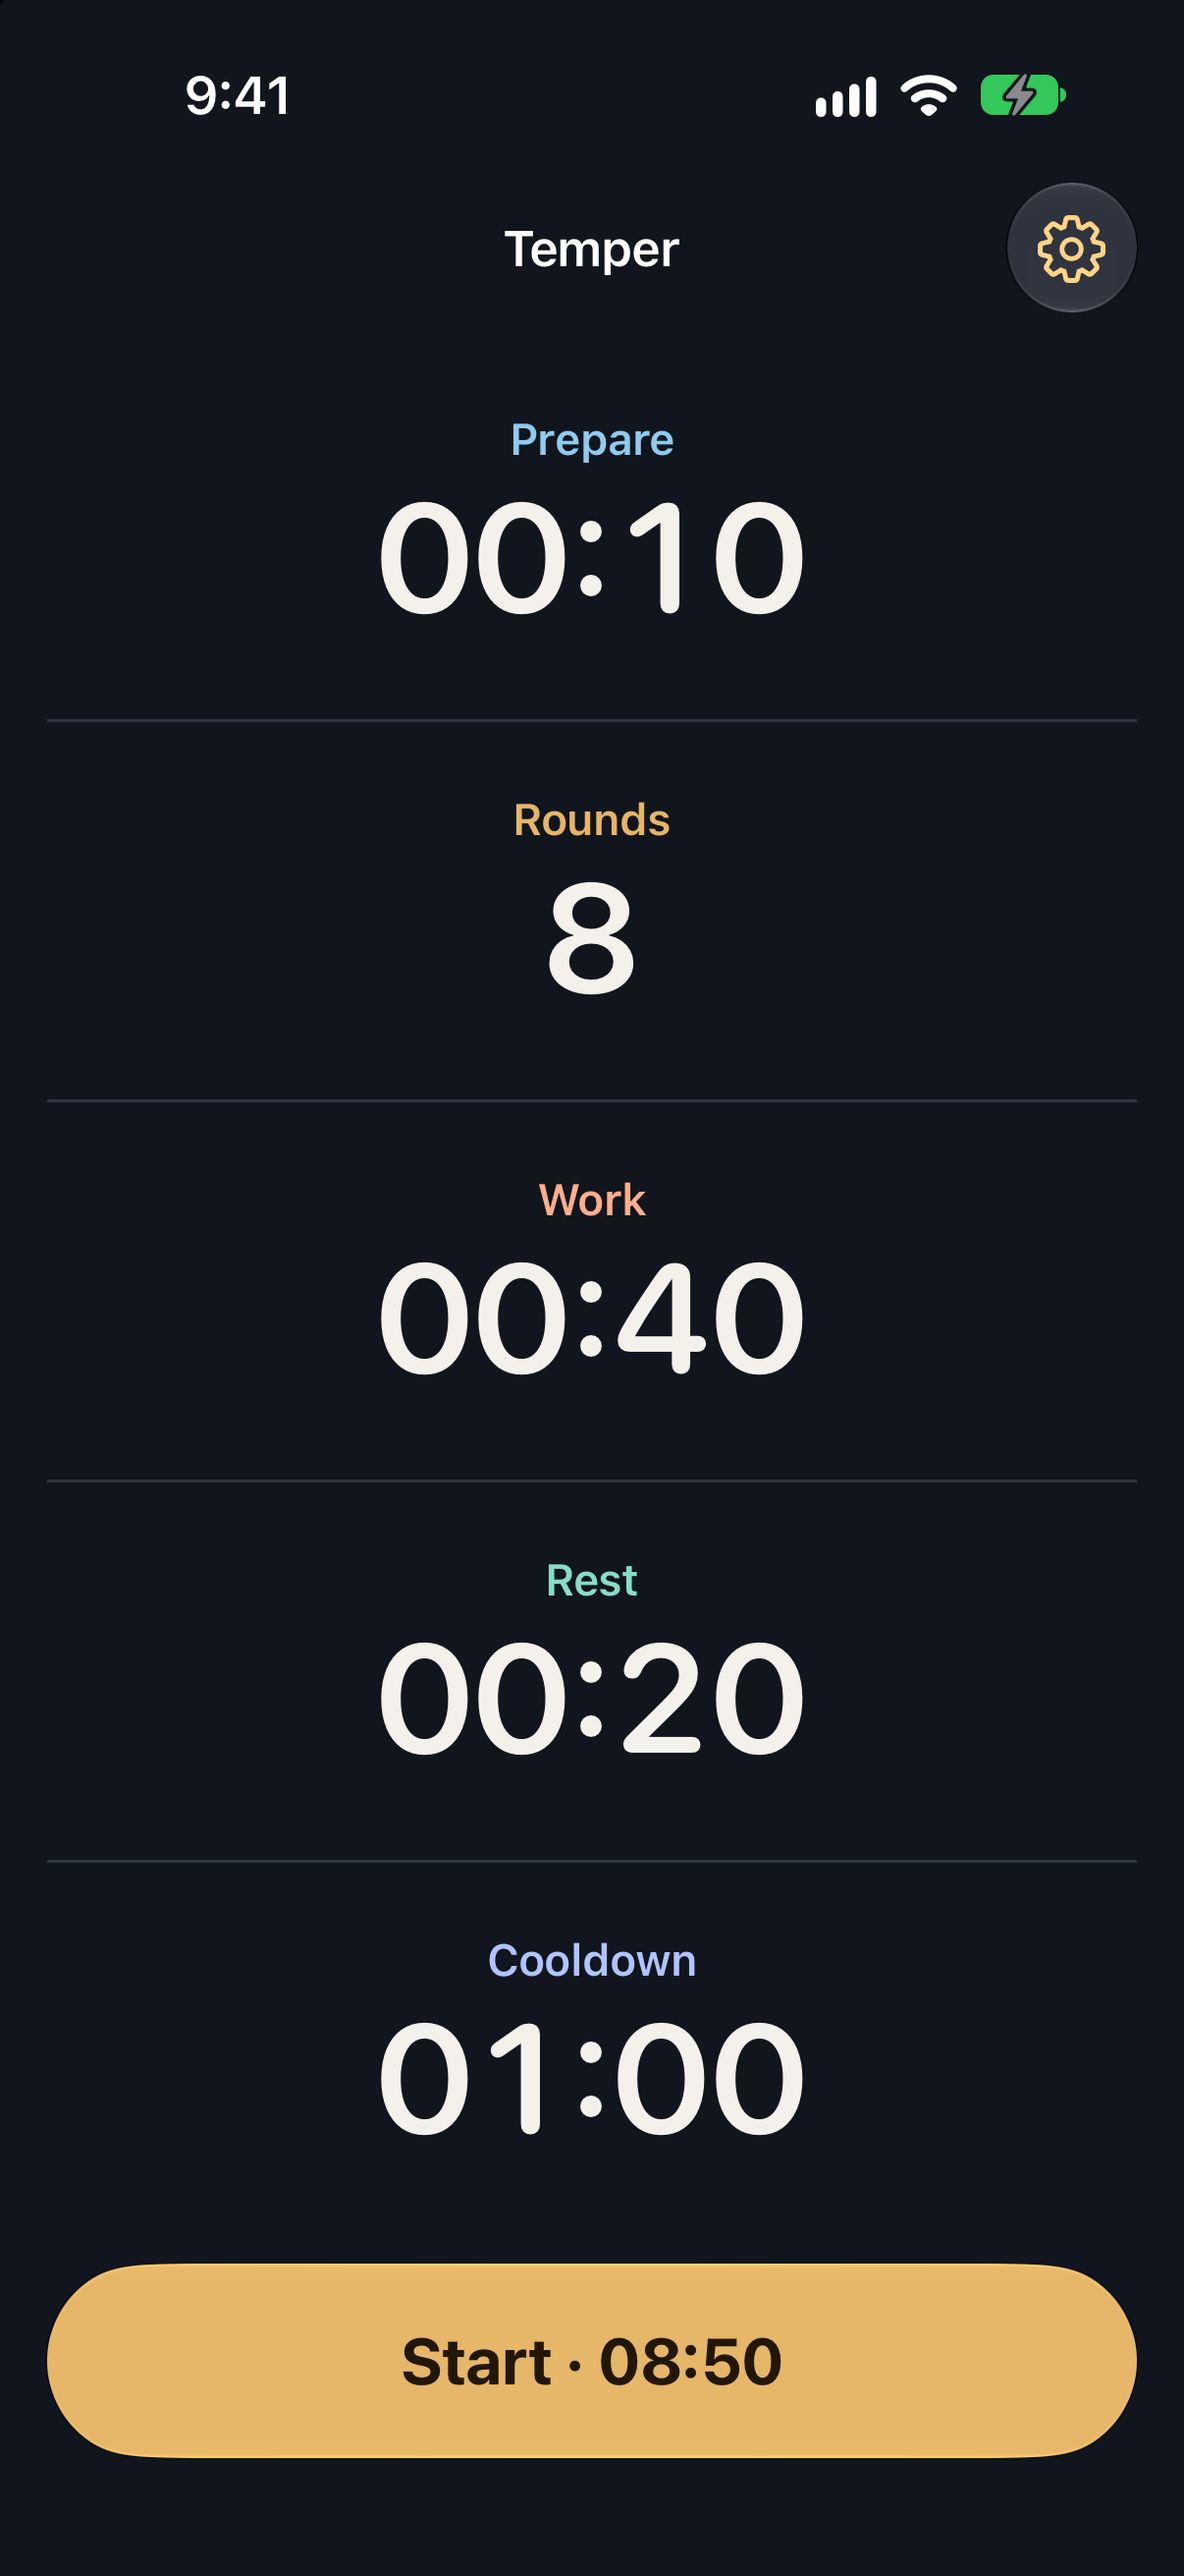
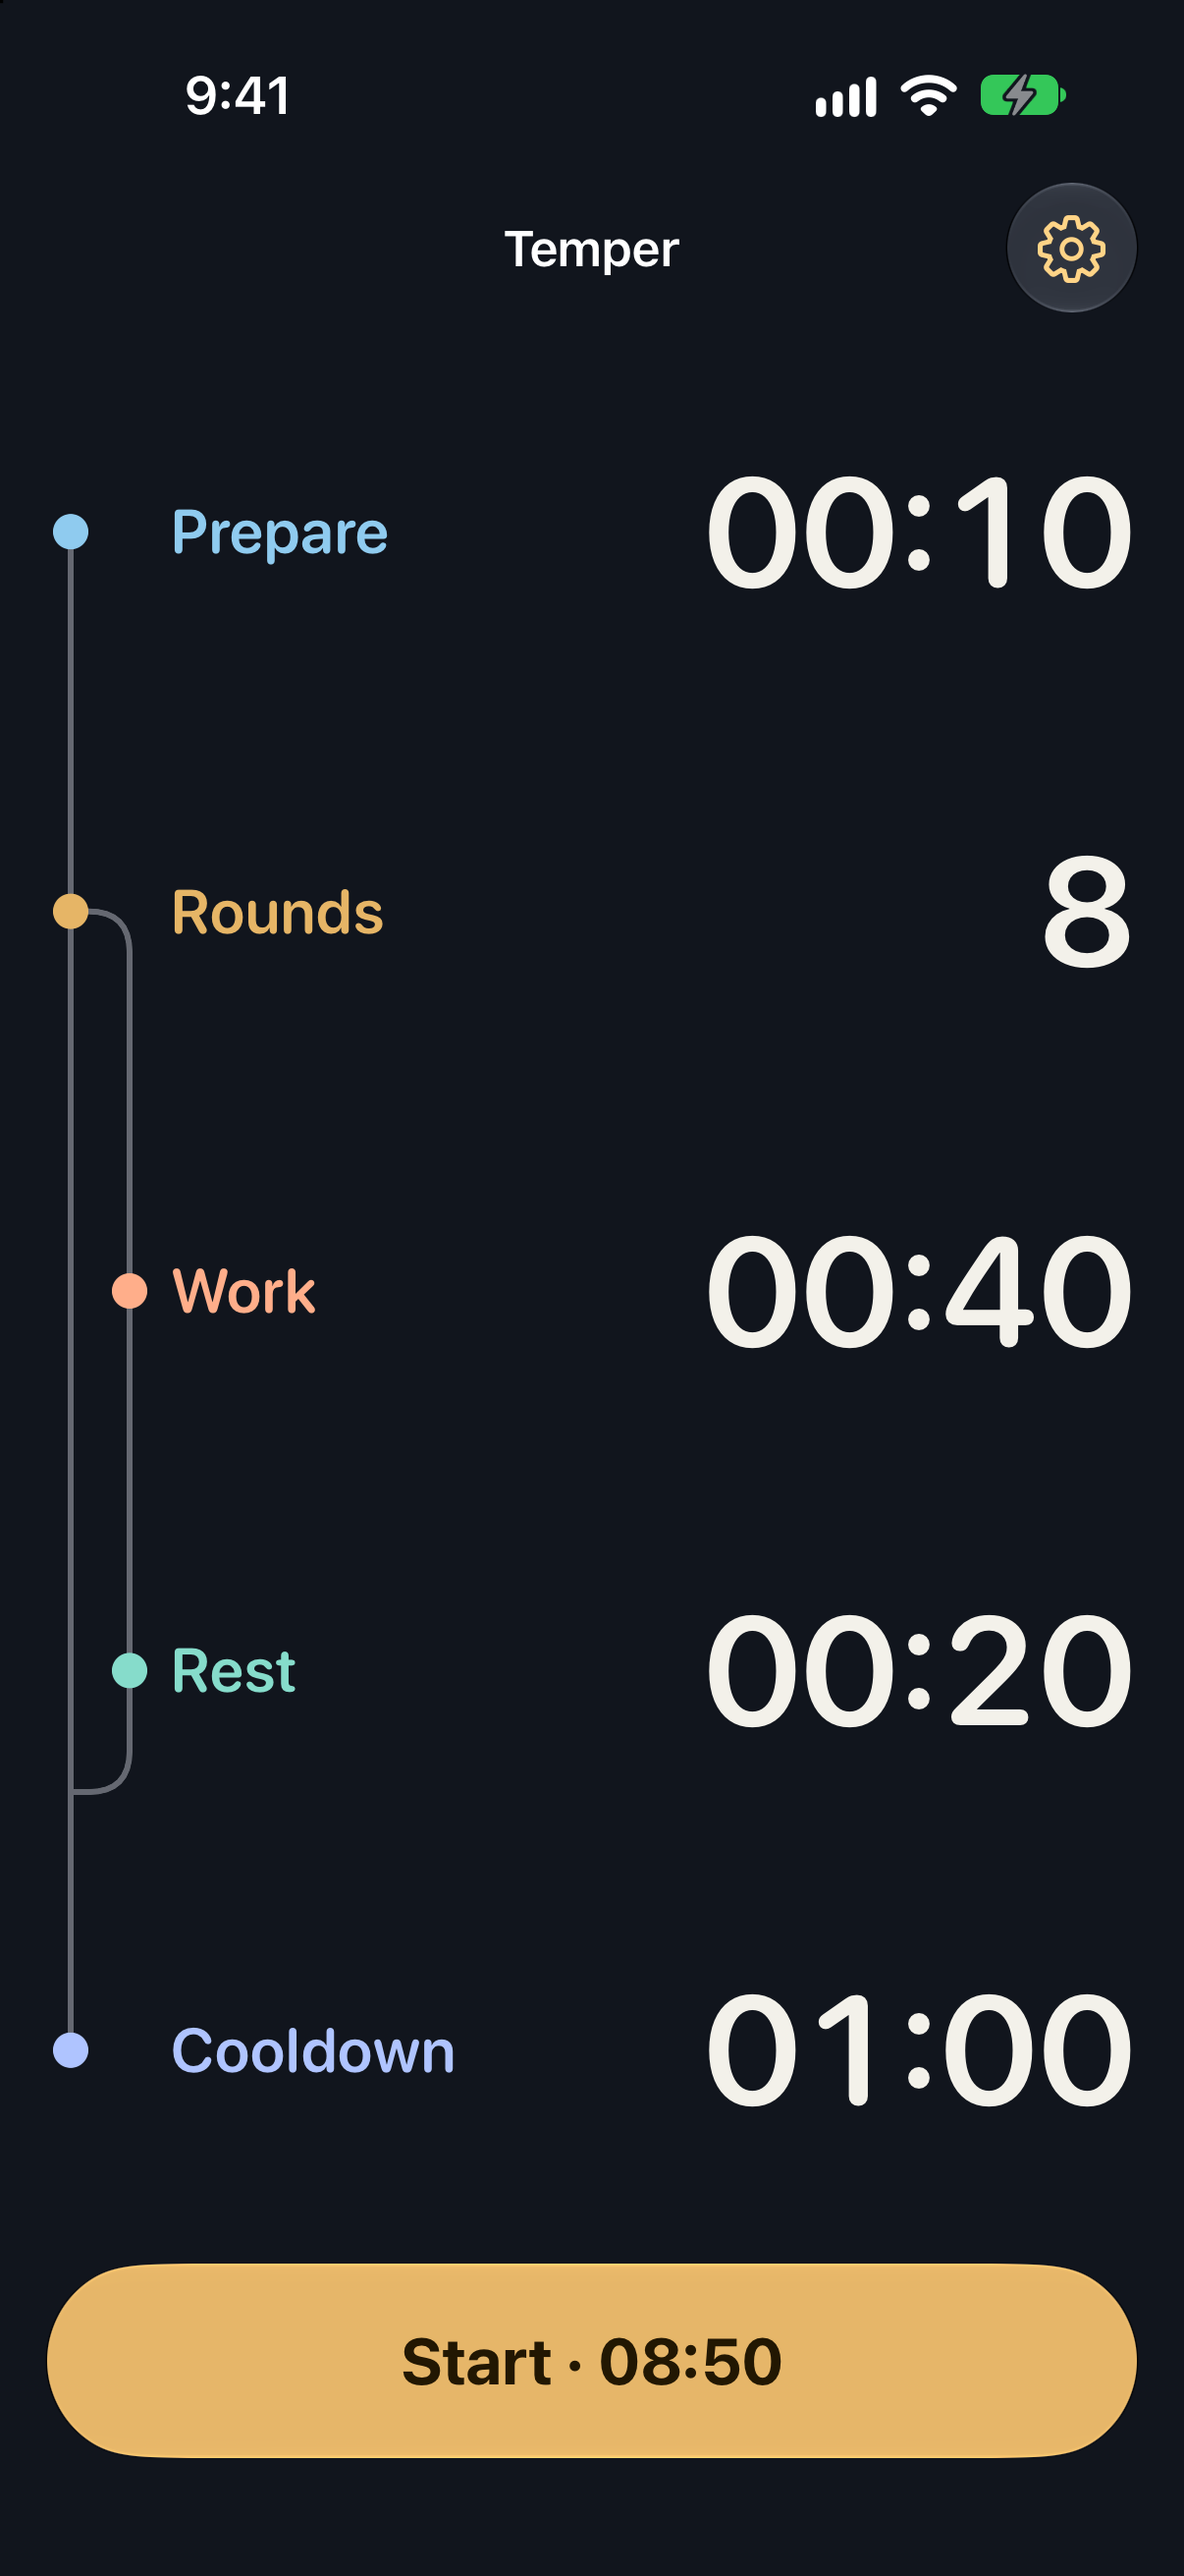
Compare three setup label styles in Screens Probe
Thread draws the Workout as a line with Work and Rest on a loop, Italic uses the system serif italic, and Edge turns the labels sideways along each row.

diff --git a/Prototypes/ScreensProbe/ScreensProbe/SetupF.swift b/Prototypes/ScreensProbe/ScreensProbe/SetupF.swift
@@ -1,35 +1,35 @@
 // PROTOTYPE, throw away. The chosen setup screen: the screen is only the preview, and tapping a
 // value opens a sheet with the custom wheel. Each value and sheet wears its Phase's colors, so
-// setup previews how the Workout will look. Rounds has no Phase, so it wears brass.
+// setup previews how the Workout will look. Rounds has no Phase, so it wears brass. This round
+// compares three treatments of the labels.
 import SwiftUI
+
+enum LabelStyle: String, CaseIterable {
+    case thread, serif, edge
+
+    var title: String {
+        switch self {
+        case .thread: "Thread"
+        case .serif: "Italic"
+        case .edge: "Edge"
+        }
+    }
+
+    var next: LabelStyle {
+        let all = Self.allCases
+        return all[((all.firstIndex(of: self) ?? 0) + 1) % all.count]
+    }
+}
 
 struct SetupF: View {
     @Bindable var state: ProbeState
 
     private var colors: ThemeColors { state.theme.colors }
+    private var style: LabelStyle { state.labelStyle }
 
     var body: some View {
         VStack(spacing: 0) {
-            ForEach(Field.allCases) { field in
-                Button {
-                    state.editing = field
-                } label: {
-                    VStack(spacing: 0) {
-                        Text(field.title).font(.subheadline.weight(.semibold))
-                            .foregroundStyle(titleColor(field))
-                        Text(field.text(state.values[keyPath: field.keyPath]))
-                            .font(.system(size: 52, weight: .semibold, design: .rounded))
-                            .monospacedDigit()
-                            .foregroundStyle(colors.text)
-                    }
-                    .frame(maxWidth: .infinity, maxHeight: .infinity)
-                    .contentShape(.rect)
-                }
-                .buttonStyle(.plain)
-                if field != .cooldown {
-                    Rectangle().fill(colors.separator).frame(height: 1)
-                }
-            }
+            rows
             StartButton(state: state)
                 .padding(.top, 8)
         }
@@ -40,13 +40,84 @@ struct SetupF: View {
         .sheet(item: $state.editing) { field in
             let sheet = sheetColors(field)
             VStack(spacing: 8) {
-                Text(field.title).font(.headline).foregroundStyle(sheet.title).padding(.top, 20)
+                sheetTitle(field).foregroundStyle(sheet.title).padding(.top, 20)
                 FieldEditor(state: state, field: field)
                     .foregroundStyle(sheet.text)
             }
             .padding(.horizontal)
             .presentationDetents([.medium])
             .presentationBackground(sheet.background)
+        }
+    }
+
+    private var rows: some View {
+        VStack(spacing: 0) {
+            ForEach(Field.allCases) { field in
+                Button {
+                    state.editing = field
+                } label: {
+                    row(field)
+                        .frame(maxWidth: .infinity, maxHeight: .infinity)
+                        .contentShape(.rect)
+                }
+                .buttonStyle(.plain)
+                .accessibilityLabel(
+                    "\(field.title) \(field.text(state.values[keyPath: field.keyPath]))")
+                if field != .cooldown, style != .thread {
+                    Rectangle().fill(colors.separator).frame(height: 1)
+                }
+            }
+        }
+        .overlay(alignment: .leading) {
+            if style == .thread {
+                WorkoutThread(state: state)
+                    .frame(width: 36)
+                    .allowsHitTesting(false)
+            }
+        }
+    }
+
+    @ViewBuilder
+    private func row(_ field: Field) -> some View {
+        switch style {
+        case .thread:
+            HStack {
+                Text(field.title)
+                    .font(.system(size: 21, weight: .semibold, design: .rounded))
+                    .foregroundStyle(titleColor(field))
+                Spacer(minLength: 8)
+                value(field)
+            }
+            .padding(.leading, 42)
+        case .serif:
+            VStack(spacing: 0) {
+                Text(field.title)
+                    .font(.system(size: 25, weight: .medium, design: .serif).italic())
+                    .foregroundStyle(titleColor(field))
+                value(field)
+            }
+        case .edge:
+            value(field)
+                .frame(maxWidth: .infinity)
+                .overlay(alignment: .leading) {
+                    EdgeLabel(title: field.title, color: titleColor(field))
+                }
+        }
+    }
+
+    private func value(_ field: Field) -> some View {
+        Text(field.text(state.values[keyPath: field.keyPath]))
+            .font(.system(size: 52, weight: .semibold, design: .rounded))
+            .monospacedDigit()
+            .foregroundStyle(colors.text)
+    }
+
+    @ViewBuilder
+    private func sheetTitle(_ field: Field) -> some View {
+        if style == .serif {
+            Text(field.title).font(.system(size: 25, weight: .medium, design: .serif).italic())
+        } else {
+            Text(field.title).font(.headline)
         }
     }
 
@@ -60,5 +131,70 @@ struct SetupF: View {
         }
         let phase = state.theme.phase(kind)
         return (phase.background, phase.ring, phase.text)
+    }
+}
+
+/// The Workout drawn as one line: Prepare, a loop that Work and Rest sit on, then Cooldown. An
+/// empty node means the Phase is Off.
+private struct WorkoutThread: View {
+    let state: ProbeState
+
+    var body: some View {
+        Canvas { context, size in
+            let colors = state.theme.colors
+            let count = CGFloat(Field.allCases.count)
+            func center(_ index: Int) -> CGFloat { size.height * (CGFloat(index) + 0.5) / count }
+            let left: CGFloat = 8
+            let right: CGFloat = 28
+            let bottom = center(3) + size.height / count * 0.32
+            let line = StrokeStyle(lineWidth: 2, lineCap: .round)
+
+            var thread = Path()
+            thread.move(to: CGPoint(x: left, y: center(0)))
+            thread.addLine(to: CGPoint(x: left, y: center(4)))
+            thread.move(to: CGPoint(x: left, y: center(1)))
+            thread.addLine(to: CGPoint(x: right - 14, y: center(1)))
+            thread.addQuadCurve(
+                to: CGPoint(x: right, y: center(1) + 14),
+                control: CGPoint(x: right, y: center(1)))
+            thread.addLine(to: CGPoint(x: right, y: bottom - 14))
+            thread.addQuadCurve(
+                to: CGPoint(x: right - 14, y: bottom),
+                control: CGPoint(x: right, y: bottom))
+            thread.addLine(to: CGPoint(x: left, y: bottom))
+            context.stroke(thread, with: .color(colors.secondary.opacity(0.55)), style: line)
+
+            for (index, field) in Field.allCases.enumerated() {
+                let onLoop = field == .work || field == .rest
+                let spot = CGPoint(x: onLoop ? right : left, y: center(index))
+                let color = field.phaseKind.map { state.theme.phase($0).ring } ?? colors.accent
+                let rect = CGRect(x: spot.x - 6, y: spot.y - 6, width: 12, height: 12)
+                if state.values[keyPath: field.keyPath] == 0 {
+                    context.fill(Path(ellipseIn: rect), with: .color(colors.background))
+                    context.stroke(Path(ellipseIn: rect), with: .color(color), lineWidth: 2)
+                } else {
+                    context.fill(Path(ellipseIn: rect), with: .color(color))
+                }
+            }
+        }
+        .accessibilityHidden(true)
+    }
+}
+
+/// The label turned sideways along the row's edge, like a marking on a tool, beside a short rule.
+private struct EdgeLabel: View {
+    let title: String
+    let color: Color
+
+    var body: some View {
+        HStack(spacing: 7) {
+            Capsule().fill(color).frame(width: 3, height: 74)
+            Text(title)
+                .font(.system(size: 16, weight: .semibold, design: .rounded))
+                .foregroundStyle(color)
+                .fixedSize()
+                .rotationEffect(.degrees(-90))
+                .frame(width: 20, height: 74)
+        }
     }
 }

diff --git a/Prototypes/ScreensProbe/ScreensProbe/ProbeBar.swift b/Prototypes/ScreensProbe/ScreensProbe/ProbeBar.swift
@@ -41,6 +41,8 @@ extension View {
                     Text(detail).font(.caption2)
                 }
                 .frame(maxWidth: .infinity)
+                barButton("textformat") { state.labelStyle = state.labelStyle.next }
+                    .accessibilityLabel("Next label style")
                 if let runner = state.runner, !runner.isDone {
                     barButton("forward.end.fill") { runner.skip() }
                 }
@@ -60,7 +62,7 @@ extension View {
 
         private var title: String {
             let screen = !state.path.isEmpty ? "SETTINGS" : onRunning ? "RUNNING" : "SETUP"
-            return "PROTOTYPE · \(screen)"
+            return "PROTOTYPE · \(screen) · \(state.labelStyle.title)"
         }
 
         private var detail: String {

diff --git a/Prototypes/ScreensProbe/ScreensProbe/Model.swift b/Prototypes/ScreensProbe/ScreensProbe/Model.swift
@@ -187,9 +187,12 @@ final class ProbeState {
     let noBar = UserDefaults.standard.bool(forKey: "noBar")
     var editing: Field?
     var confirmStop = false
+    var labelStyle = LabelStyle.thread
 
     init() {
         let args = UserDefaults.standard
+        labelStyle = LabelStyle(rawValue: args.string(forKey: "labelStyle") ?? "") ?? .thread
+        if args.object(forKey: "rest") != nil { values.rest = args.integer(forKey: "rest") }
         if args.integer(forKey: "rounds") > 0 {
             values.rounds = Field.rounds.clamped(args.integer(forKey: "rounds"))
         }

diff --git a/Prototypes/ScreensProbe/README.md b/Prototypes/ScreensProbe/README.md
@@ -4,7 +4,7 @@ Answers one question: what should the setup, running and Settings screens look l
 
 The timer is a stand-in. It has no audio, no background running and no accuracy claims, and nothing is saved.
 
-This is the final round, with the layouts, the Ink design system and the Temper bar chosen. Earlier variants are in this branch's history: the first round at `d6cee05`, the second at `6c6edda`, the third, with the Tide and Plum themes, at `b8542a3`, the fourth, with "Round 3 of 8" as text, at `9fc9369` and the fifth, with the Chalk and Bezel styles, at `31084cb`.
+This round compares three treatments of the setup labels, with the layouts, the Ink design system and the Temper bar chosen. Earlier variants are in this branch's history: the first round at `d6cee05`, the second at `6c6edda`, the third, with the Tide and Plum themes, at `b8542a3`, the fourth, with "Round 3 of 8" as text, at `9fc9369` and the fifth, with the Chalk and Bezel styles, at `31084cb`.
 
 ## Run it
 
@@ -22,6 +22,7 @@ Colors are best judged on a real iPhone. For that, run `cp Config/Local.xcconfig
 
 The black and yellow bar is not part of any design.
 
+- **Text button:** switches between the three label styles on setup. The bar names the current one.
 - **Skip button:** jumps to the next Phase. Skipping is not a v1 feature.
 - **Eye:** hides the bar. A small yellow dot in the bottom corner brings it back.
 
@@ -42,6 +43,12 @@ The running screen shows a Temper bar in every Phase: a steel bar that takes on 
 
 Setup and the complete screen don't show the bar.
 
+## Setup labels
+
+- **Thread:** the Workout drawn as one line, with a colored node for each value and Work and Rest on a loop. An empty node means the Phase is Off. Labels sit left and values right.
+- **Italic:** the labels in the system's serif italic, above centered values.
+- **Edge:** the labels turned sideways along each row's edge, beside a short colored rule.
+
 ## Time format
 
 Every time reads `00:00`, for example `01:00`.
@@ -50,8 +57,8 @@ Every time reads `00:00`, for example `01:00`.
 
 Prepare, Rest and Cooldown run from Off to 30:00 in 5-second steps, and Off skips the Phase. Work runs from 00:05 to 30:00. Rounds run from 1 to 99.
 
-Launch arguments open a state directly, for example `./run.sh -screen running -phase Rest -time 14`. Others are `-screen settings`, `-screen complete`, `-paused YES`, `-confirmStop YES`, `-edit work`, `-noBar YES` and `-rounds 99`.
+Launch arguments open a state directly, for example `./run.sh -screen running -phase Rest -time 14`. Others are `-screen settings`, `-screen complete`, `-paused YES`, `-confirmStop YES`, `-edit work`, `-noBar YES`, `-rounds 99`, `-rest 0` and `-labelStyle serif`.
 
 ## Screenshots
 
-`screenshots/` has every screen on a Simulator iPhone 18 Pro, without the bar, including 3 and 99 Rounds.
+`screenshots/` has every screen on a Simulator iPhone 18 Pro, without the bar, including 3 and 99 Rounds. `screenshots/labels/` has each label style.
